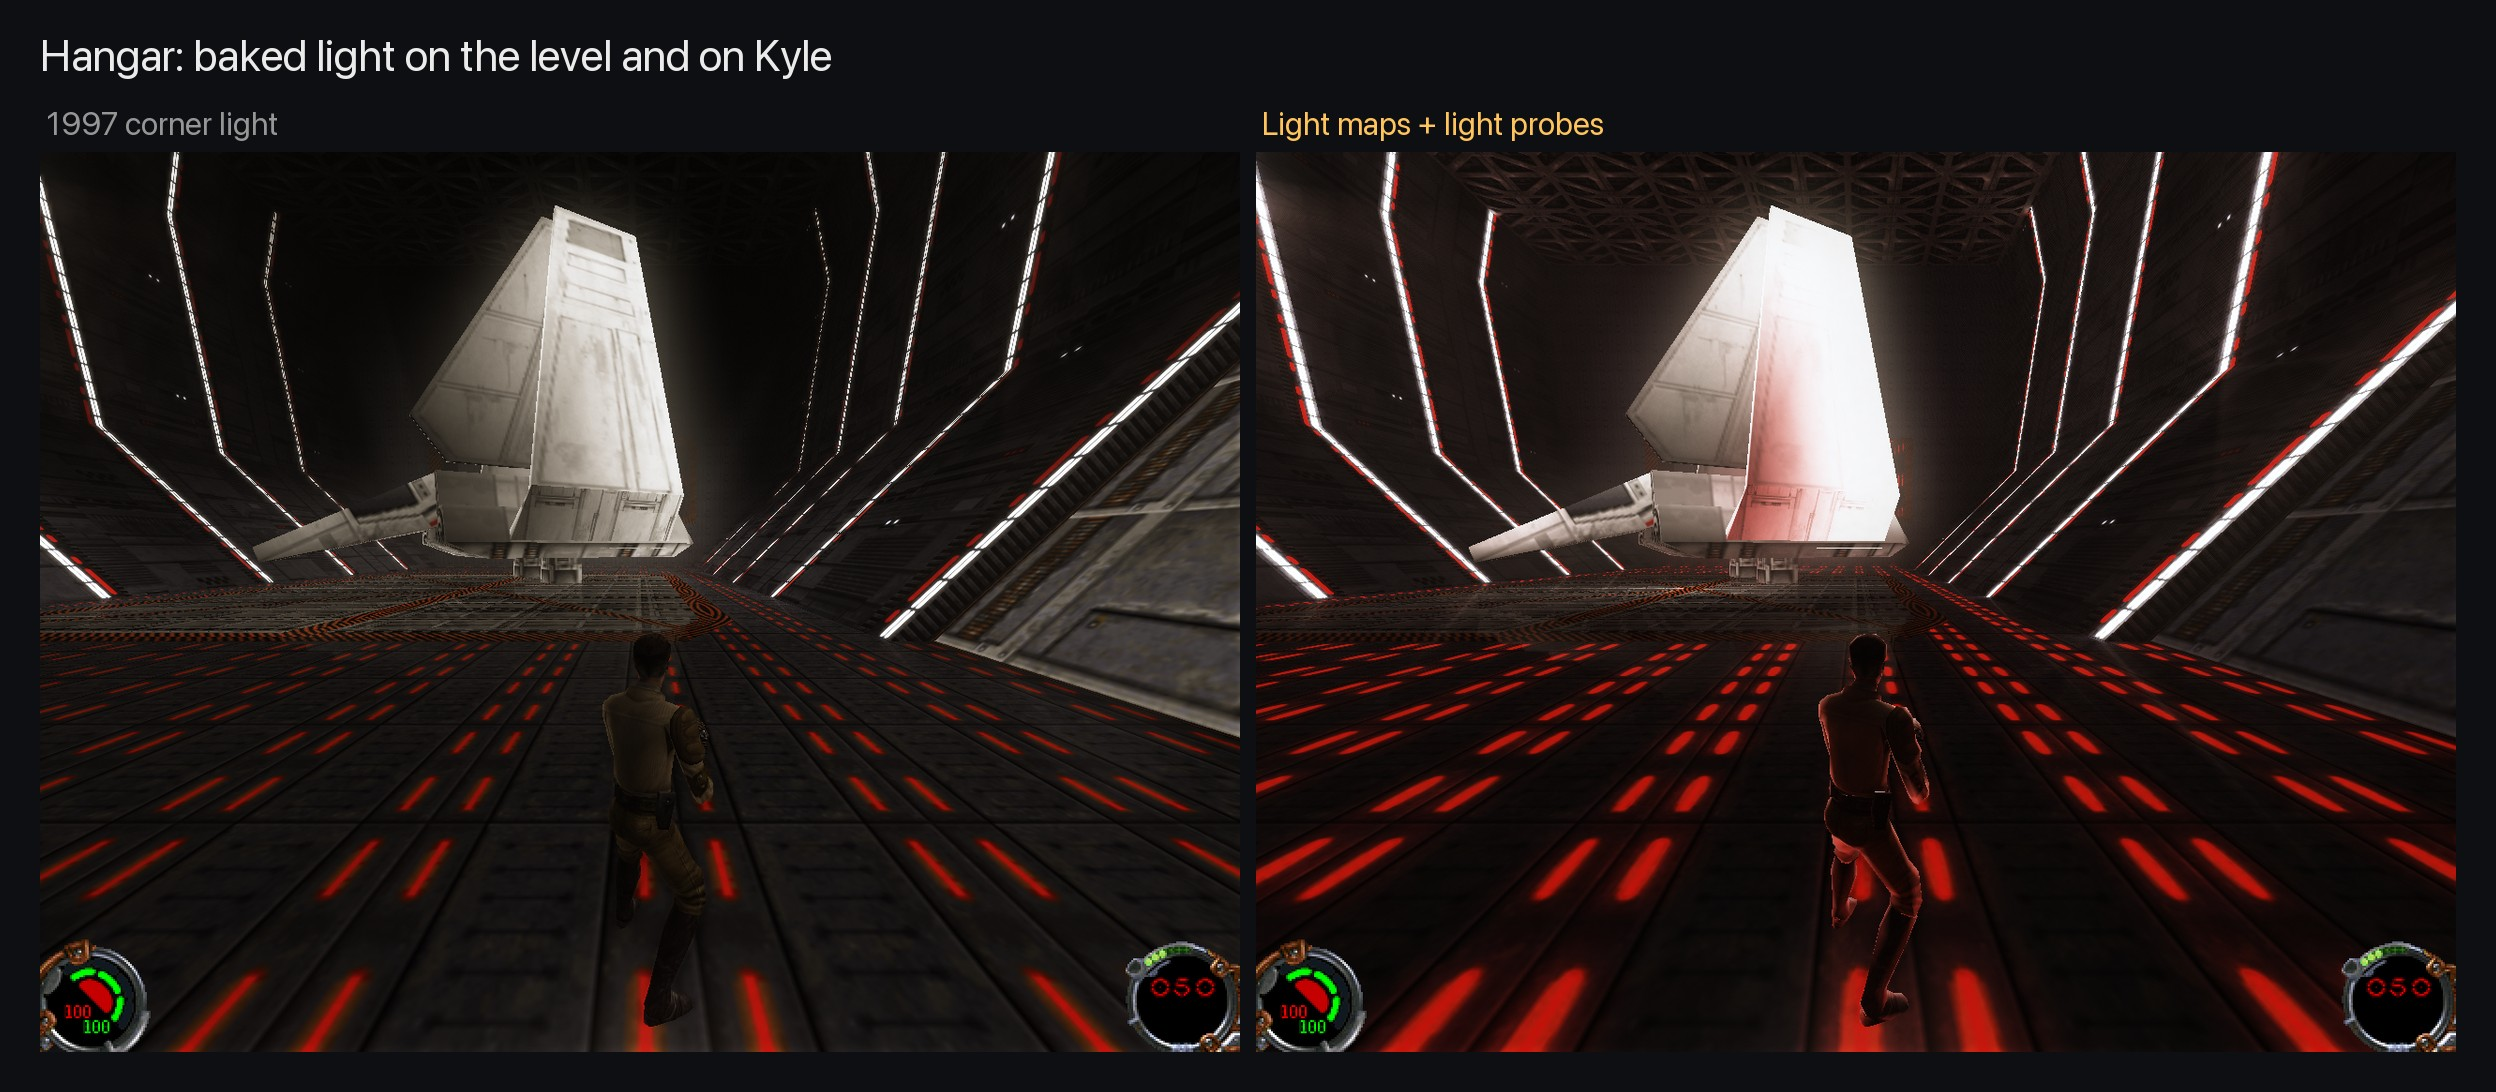
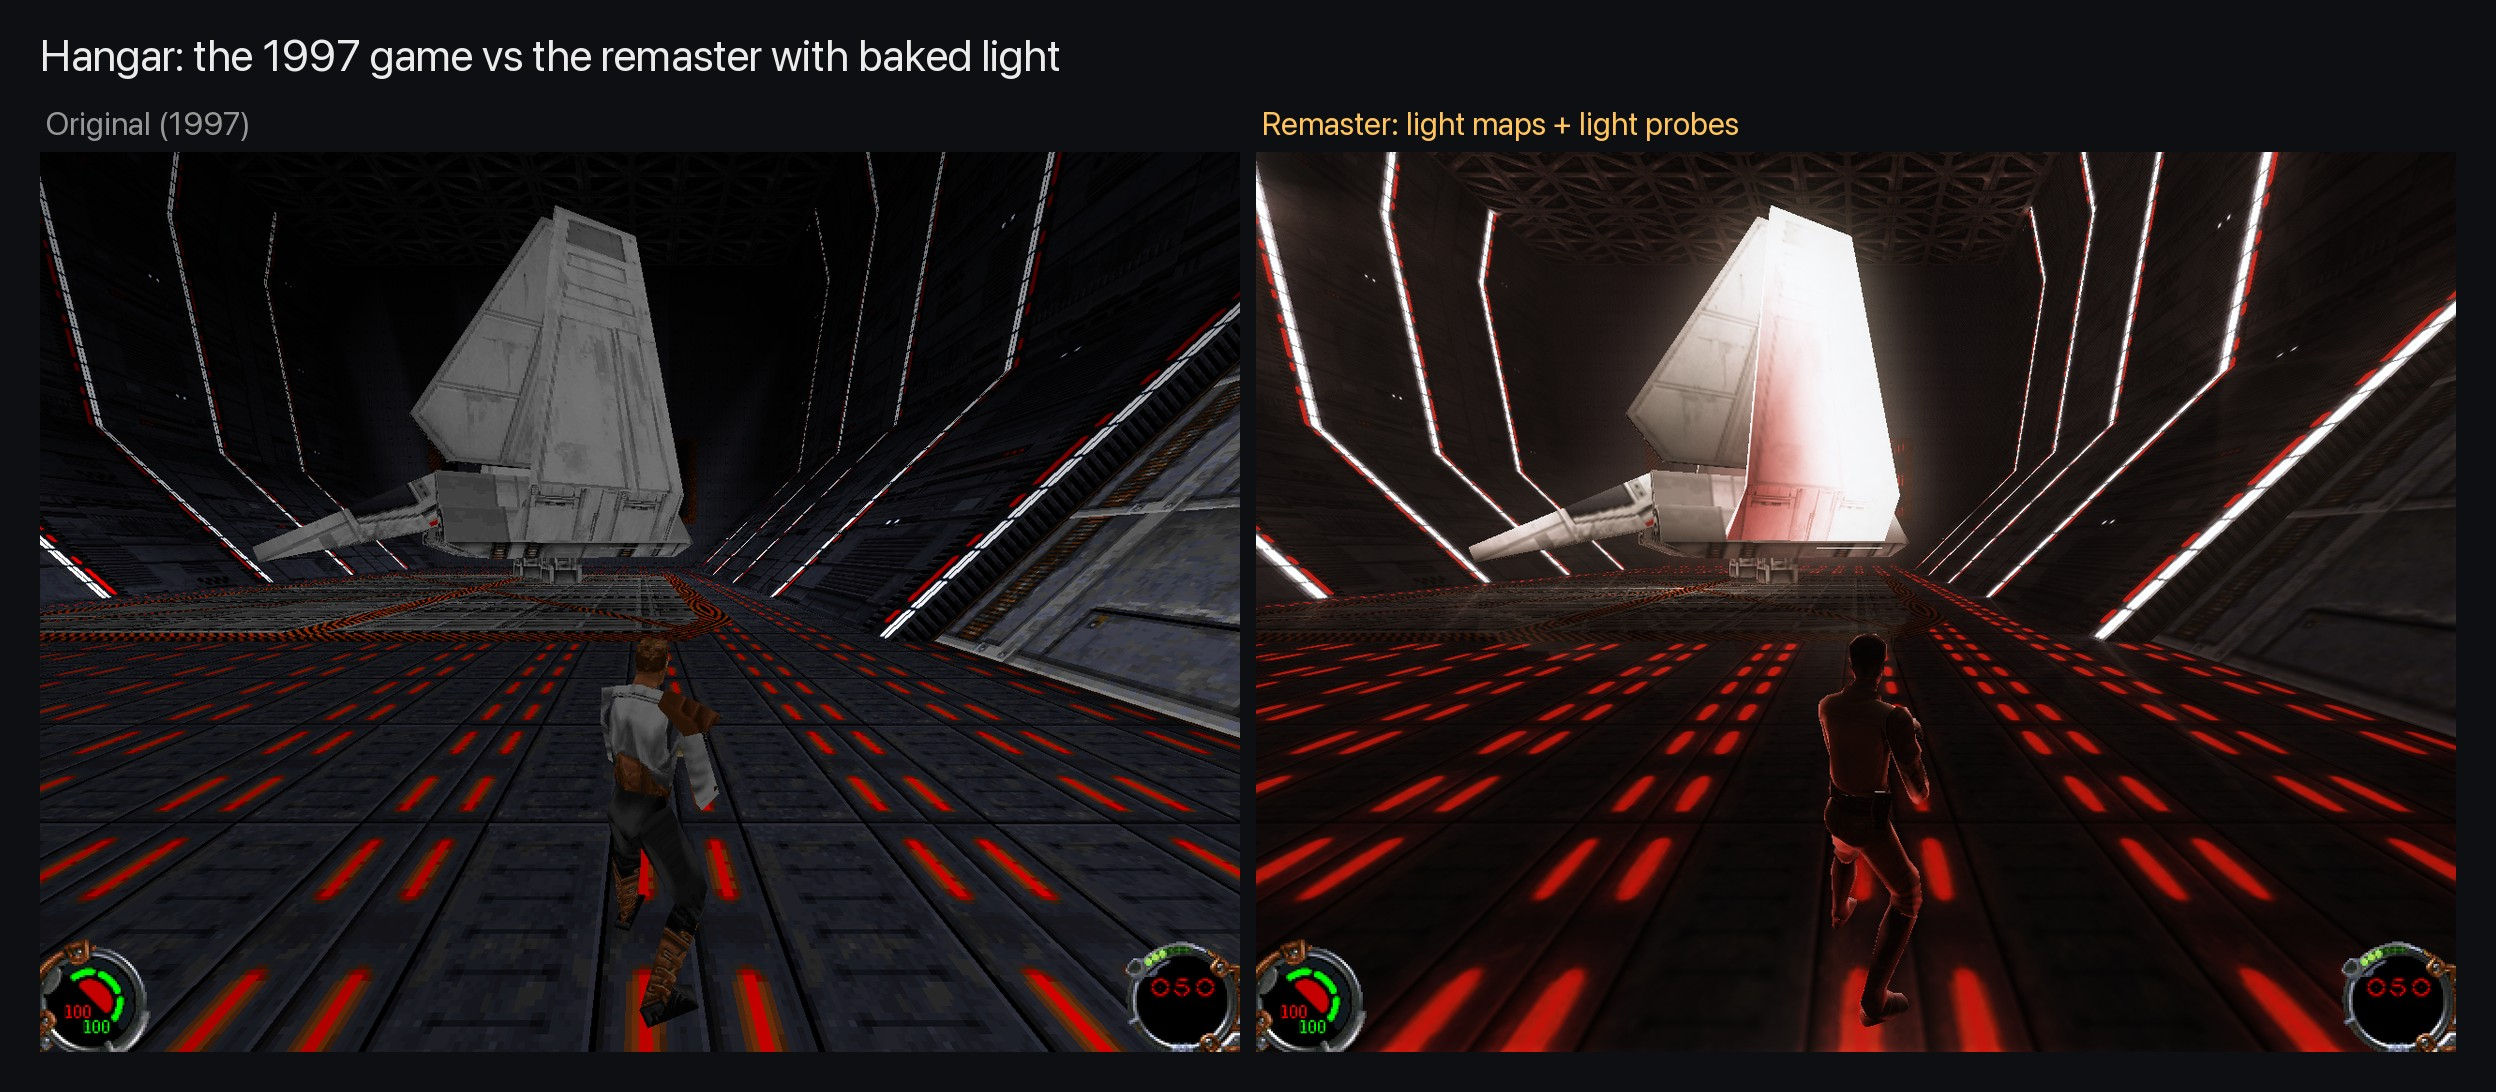
Homepage: hangar comparison against the 1997 game

diff --git a/docs/DECISIONS.md b/docs/DECISIONS.md
@@ -612,3 +612,5 @@ Every scene should be lit like a cinematic Star Wars shot: key light from the si
 - Gotcha: captures save every setting passed on the command line into the capture profile (gamedata/capture/player/ServerDed/openjkdf2_cvars.json), so later captures silently kept old tuning values (the "rim 1.6" frame was really 0.9). The code defaults now match the approved look and the r_cine values were cleared from the capture profile. Dom's own profile had none saved, so the game uses the defaults.
 - Not yet: models aren't in the bake, so the bright shuttle in front of Kyle lights nothing. Options: a screen-space rim coloured by what's behind a character (general), or baking parked models into the probes.
 - Next (proposal): atmosphere, volumetric fog lit by a baked light volume, height fog, hand-placed fog and smoke volumes (docs/stage2-atmosphere-plan.md).
+
+**Side-by-sides against the real 1997 game** (Dom, 2026-11-12): comparisons for sharing always put the full original on the left: original models, original textures, remaster off. `CAPTURE_ORIGINAL=1 scripts/capture.sh` does it (sets the capture folder's converted models aside for that run, no HD pack, `remaster 0`, no filtering). The homepage hangar image (docs/screenshots/stage2-baked-light-hangar.jpg) is now 1997 vs remaster.

diff --git a/.github/README.md b/.github/README.md
@@ -117,7 +117,7 @@ Work in progress lives on feature branches until it's been playtested; the newes
 
 **Baked lighting.** Every level's lighting is being re-baked in Blender's Cycles path tracer: the level designers' lights (recovered from the 1997 lighting), every glowing strip and lamp as a real light, and sky light through openings, with shadows and bounce light. The result is a light map the engine uses in place of the 1997 corner light, plus light probes that light characters and props by what's around them. Kyle walking over the hangar's red floor strips now catches their red as a hot edge on his legs, with a rim from the white lights ahead. (Known: the shuttle's lit face blows out; models aren't part of the bake yet.)
 
-![Hangar: 1997 corner light vs light maps and light probes](../docs/screenshots/stage2-baked-light-hangar.jpg)
+![Hangar: the 1997 game vs the remaster with light maps and light probes](../docs/screenshots/stage2-baked-light-hangar.jpg)
 
 Tuning the character light against a paint-over reference (floor light strength, then the back-light rim):
 
